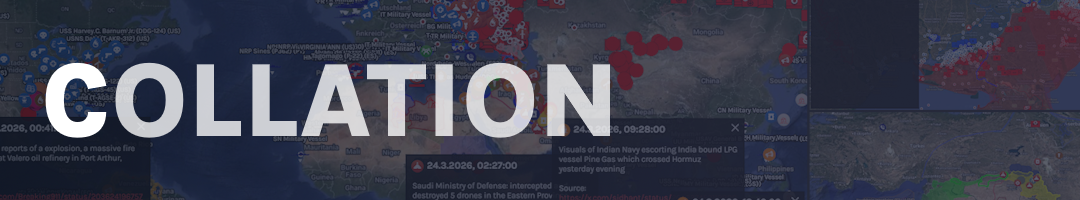
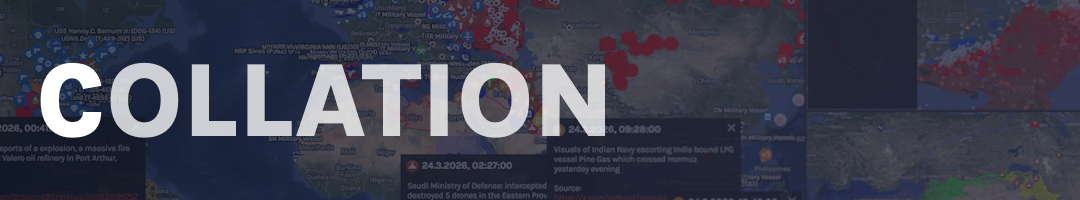
fixed bits with website

diff --git a/Home.md b/Home.md
@@ -3,7 +3,7 @@ cover: https://i.postimg.cc/qvvmDC6H/embed-template.png
 description: Centralised documentation for all Confoederatio projects. If this is the homepage, please select the project you are looking for.
 ---
 
-<h2 align="right"><b><!-- COUNT_START -->158<!-- COUNT_END --></b> Pages</h2>
+<h2 align="right"><b><!-- COUNT_START -->159<!-- COUNT_END --></b> Pages</h2>
 
 
 <div align = "center">

diff --git a/CRD (Confoederatio, Research Division)/Documentation/Notes & Scripts/Naissance Reprojections.md b/CRD (Confoederatio, Research Division)/Documentation/Notes & Scripts/Naissance Reprojections.md
@@ -1,0 +1,4 @@
+Importing Web Mercator to Mercator:
+
+Lat: `(2 * Math.atan(Math.exp(y / 6378137)) - Math.PI / 2) * 57.29577951308232
+Lng: `x * 57.29577951308232 / 6378137``
